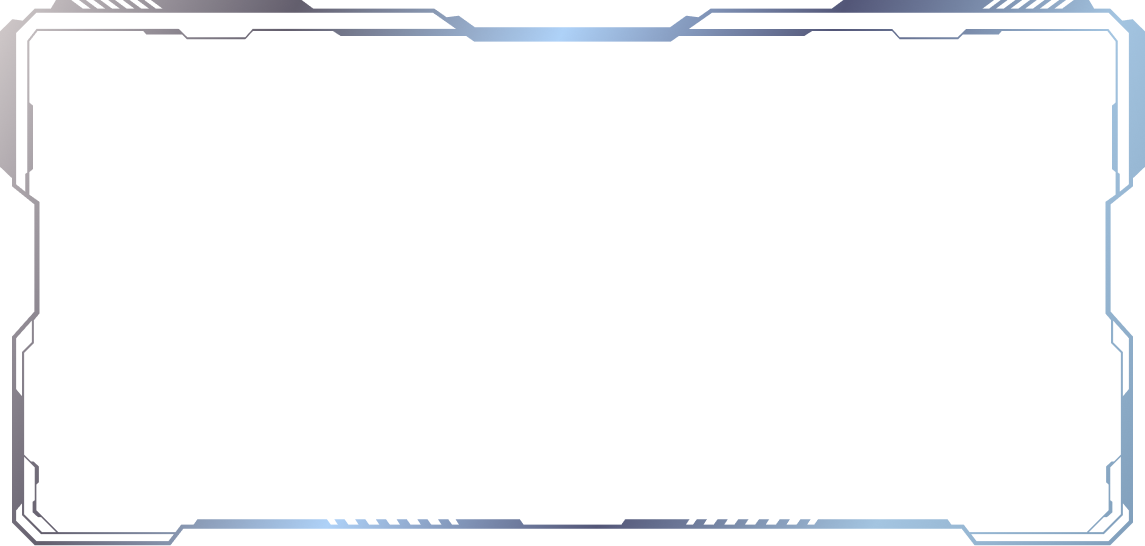
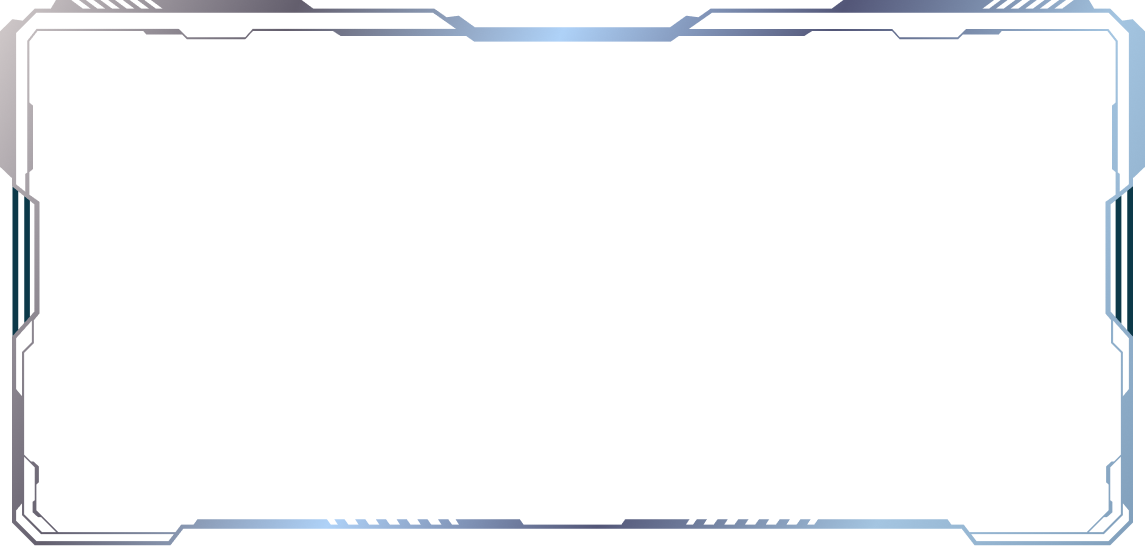
hero main video done

Changed region(s): [[0.9476, 0.3425, 1.0, 0.6227], [0.0, 0.3425, 0.0306, 0.6227]]

diff --git a/src/components/Main/Main.css b/src/components/Main/Main.css
@@ -1,9 +1,20 @@
-.main_img {
-    max-width: 1145px;
+.hero_video {
+    max-width: 950px;
     margin: 0 auto;
+    display: flex;
+    align-items: center;
+    justify-content: center;
 }
+
+.hero_video video {
+    width: 100%;
+    height: 100%;
+    border: 31px solid transparent;
+    border-image: url(../../../public/img/main_video_frame.png) 40 stretch;
+}
+
 .main_btn_group {
-    max-width: 1145px;
+    max-width: 1000px;
     margin: 20px auto;
     text-align: center;
 }
@@ -25,36 +36,7 @@
     background-repeat: no-repeat;
     position: relative;
 }
-.hero_video {
-    max-width: 1145px;
-    margin: 0 auto;
-    position: relative;
-    overflow: hidden;
-    padding-top: 35%;
-}
-.hero_video .top_video {
-    position: absolute;
-    top: 50%;
-    left: 50%;
-    transform: translate(-50%, -50%);
-    bottom: 0;
-    right: 0;
-    width: 93%;
-    height: auto;
-    border: none;
-}
-.hero_video .card_iframe {
-    position: absolute;
-    top: 49%;
-    left: 50%;
-    transform: translate(-50%, -50%);
-    bottom: 0;
-    right: 0;
-    width: 100%;
-    height: 100%;
-    border: none;
-    pointer-events: none;
-}
+
 .main_btn::after {
     --slice-0: inset(50% 50% 50% 50%);
     --slice-1: inset(80% -6px 0 0);
@@ -146,7 +128,8 @@
         transform: translate(0);
     }
 }
-@media (max-width: 1600px) {
+
+/* @media (max-width: 1600px) {
     .hero_video {
         padding-top: 42%;
     }
@@ -192,4 +175,4 @@
     .hero_video .card_iframe {
         height: 85%;
     }
-}
+} */

diff --git a/src/components/Main/Main.js b/src/components/Main/Main.js
@@ -9,7 +9,7 @@ function Main() {
     const handleClose = () => setOpen(false);
     return (
         <>
-            <div className="Main" style={{ paddingTop: "85px" }}>
+            <div className="Main" style={{ paddingTop: "80px" }}>
                 <div>
                     <motion.div
                         className="main_logo"
@@ -23,21 +23,18 @@ function Main() {
                     >
                         <img src="img/logo.png" alt="" width={"100%"} />
                     </motion.div>
-                    {/* <div className="main_img">
-                        <img src="img/main.png" alt="" width={"100%"} />
-                    </div> */}
+
                     <div className="hero_video">
                         <video
-                            class="top_video"
                             src="img/top.mp4"
                             autoPlay="true"
                             loop="true"
                         ></video>
-                        <img
+                        {/* <img
                             className="card_iframe"
                             src="img/main_video_frame.png"
                             alt=""
-                        />
+                        /> */}
                     </div>
                     <div className="main_btn_group">
                         <div className="row">

diff --git a/src/App.css b/src/App.css
@@ -42,7 +42,7 @@ a {
 }
 .main_logo {
     max-width: 400px;
-    margin: 30px auto;
+    margin: 20px auto;
 }
 input:focus-visible {
     outline: none;
